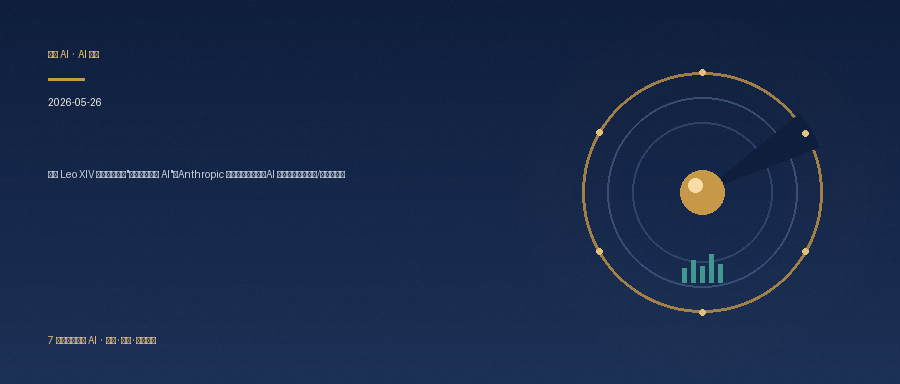
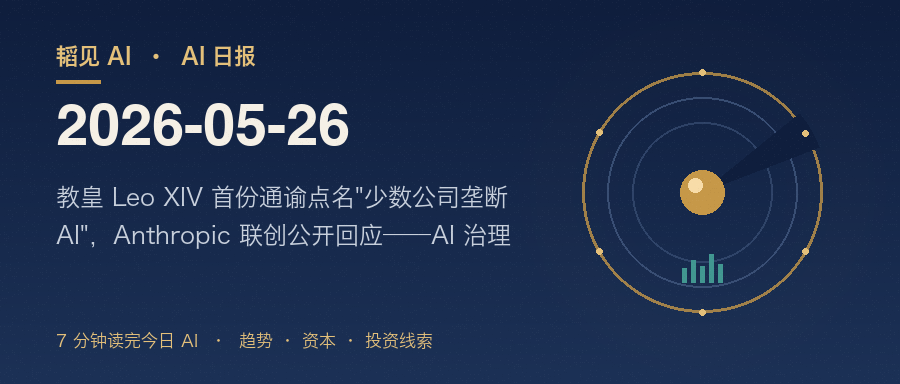
fix(cover): 修中文字体乱码 + 字号放大一档

diff --git a/scripts/wechat_render/cover_render.py b/scripts/wechat_render/cover_render.py
@@ -43,17 +43,35 @@ TEAL        = (72, 168, 156)
 WHITE_SOFT  = (245, 240, 230)
 WHITE_DIM   = (200, 208, 220)
 
-# 字体路径
-FONT_BOLD = "/System/Library/Fonts/PingFang.ttc"     # PingFang Heavy/Bold
-FONT_REG = "/System/Library/Fonts/PingFang.ttc"
+# 字体路径 — Hiragino Sans GB（macOS 自带，PIL 可正常打开；PingFang.ttc 在 PIL 下打不开）
+# face index: 0 = W3 (Regular), 2 = W6 (Bold)
+FONT_CN_PATH = "/System/Library/Fonts/Hiragino Sans GB.ttc"
+FONT_CN_REG_IDX = 0   # W3
+FONT_CN_BOLD_IDX = 2  # W6
 FONT_LATIN = "/System/Library/Fonts/Helvetica.ttc"
 
 
-def _font(path, size):
+def _font_cn(size, bold=False):
+    """加载中文字体（W6 if bold else W3），失败时回退至 STHeiti 再回退至 default。"""
+    fallbacks = [
+        (FONT_CN_PATH, FONT_CN_BOLD_IDX if bold else FONT_CN_REG_IDX),
+        ("/System/Library/Fonts/STHeiti Medium.ttc", 1),
+        ("/System/Library/Fonts/STHeiti Light.ttc", 1),
+    ]
+    for path, idx in fallbacks:
+        try:
+            return ImageFont.truetype(path, size, index=idx)
+        except Exception:
+            continue
+    return ImageFont.load_default()
+
+
+def _font_latin(size, bold=False):
+    """拉丁数字用 Helvetica。"""
     try:
-        return ImageFont.truetype(path, size)
+        return ImageFont.truetype(FONT_LATIN, size, index=1 if bold else 0)
     except Exception:
-        return ImageFont.load_default()
+        return _font_cn(size, bold=bold)
 
 
 def extract_meta(md_text):
@@ -197,34 +215,34 @@ def render_cover(date_str, summary):
     d = ImageDraw.Draw(canvas, "RGBA")
 
     # —— 左侧文字区 ——
-    pad_l = 48
-    text_max_w = int(W * 0.56) - pad_l
+    # 字号放大（封面在订阅号列表里实际显示 ~320px 宽，必须够大才看得清）
+    pad_l = 56
+    text_max_w = int(W * 0.58) - pad_l
 
-    # Logo label
-    label_fnt = _font(FONT_REG, 18)
-    d.text((pad_l, 48), "韬见 AI  ·  AI 日报", font=label_fnt, fill=GOLD_LIGHT)
+    # 顶部 logo label（金色小字）
+    label_fnt = _font_cn(22, bold=True)
+    d.text((pad_l, 44), "韬见 AI  ·  AI 日报", font=label_fnt, fill=GOLD_LIGHT)
 
     # 一条金色细线分隔
-    d.rectangle([pad_l, 78, pad_l + 36, 80], fill=GOLD)
+    d.rectangle([pad_l, 80, pad_l + 44, 83], fill=GOLD)
 
-    # 主标题：日期（大字）
-    date_fnt = _font(FONT_BOLD, 48)
-    d.text((pad_l, 96), date_str, font=date_fnt, fill=WHITE_SOFT)
+    # 主标题：日期（Helvetica 大字，更挺拔）
+    date_fnt = _font_latin(58, bold=True)
+    d.text((pad_l, 100), date_str, font=date_fnt, fill=WHITE_SOFT)
 
-    # 副标题：摘要
-    sub_fnt = _font(FONT_REG, 20)
+    # 副标题：摘要（W3，最多 2 行）
+    sub_fnt = _font_cn(24, bold=False)
     if summary:
         lines = wrap_text(d, summary, sub_fnt, text_max_w)
-        # 微信封面摘要区最多容纳 2 行
         lines = lines[:2]
-        y = 168
+        y = 184
         for line in lines:
             d.text((pad_l, y), line, font=sub_fnt, fill=WHITE_DIM)
-            y += 32
+            y += 38
 
-    # Slogan
-    slogan_fnt = _font(FONT_REG, 15)
-    d.text((pad_l, H - 50), "7 分钟读完今日 AI  ·  趋势 · 资本 · 投资线索",
+    # Slogan（底部）
+    slogan_fnt = _font_cn(17, bold=False)
+    d.text((pad_l, H - 52), "7 分钟读完今日 AI  ·  趋势 · 资本 · 投资线索",
            font=slogan_fnt, fill=GOLD_LIGHT)
 
     # 颗粒纹理（极轻）
